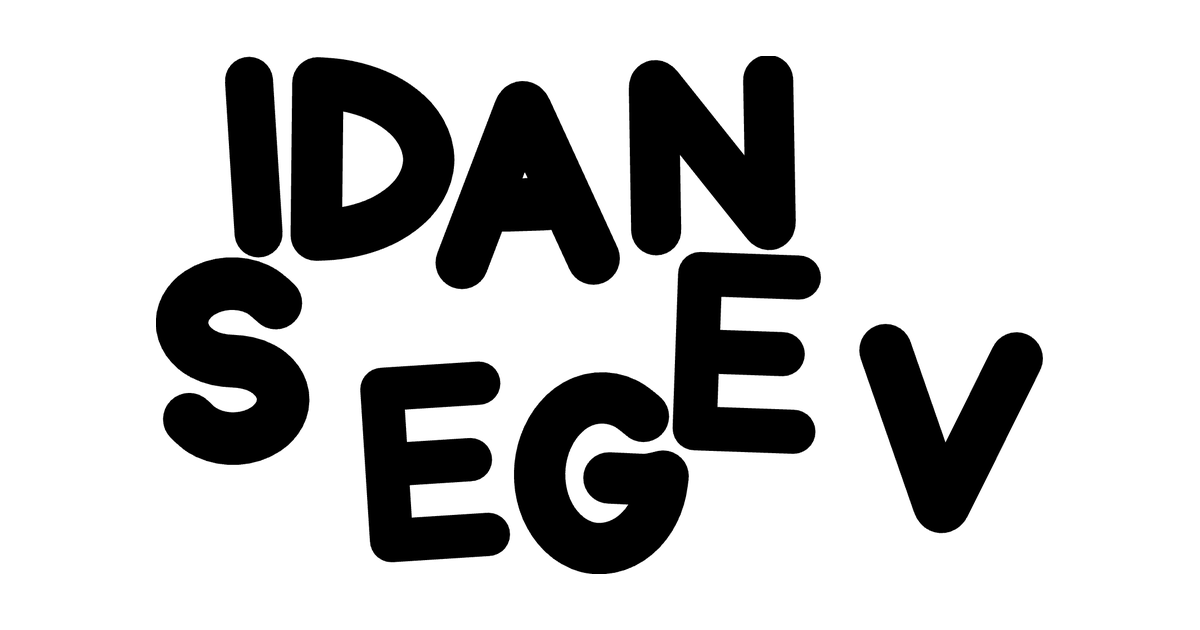
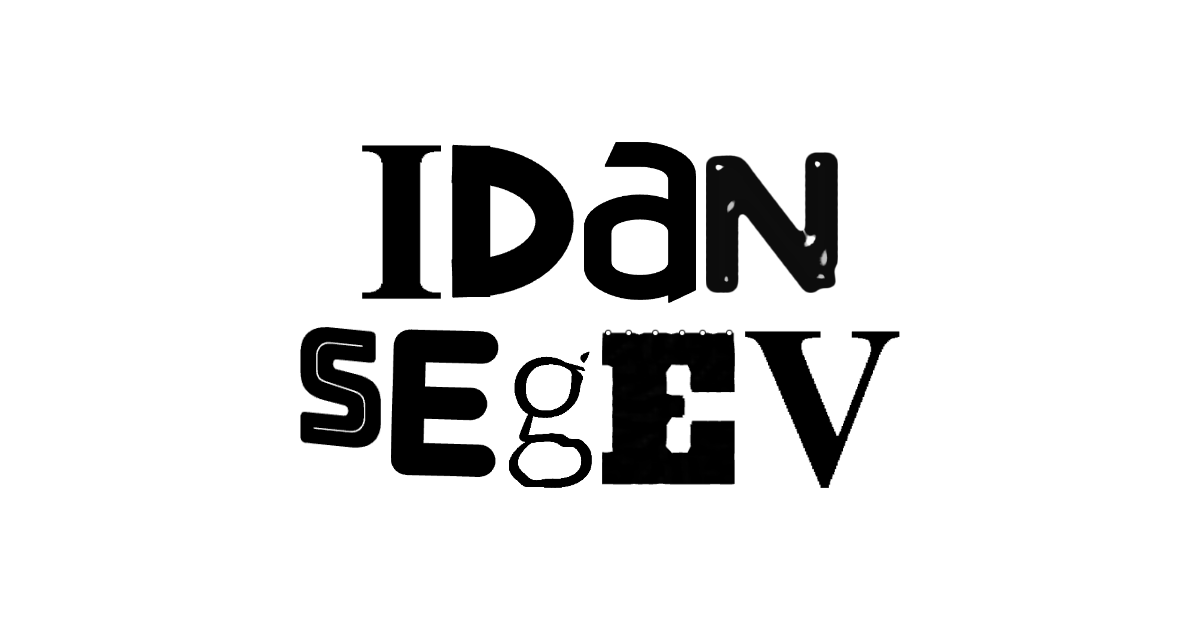
Share image: name cut letter by letter from the posters; new share text
assets/og.png is now made by tools/og-ransom.cjs: each letter of the name comes from a different
poster's share capture, centred so the square crop in WhatsApp and iMessage keeps the whole name.
Share title 'Idan Segev', description 'Design leader and builder, taste-maxing with type.', alt text
updated (the old one described the retired melt image). Share pages rebuilt.

Changed region(s): [[0.1233, 0.0905, 0.8942, 0.9349]]

diff --git a/index.html b/index.html
@@ -11,16 +11,16 @@
 
 <meta property="og:type" content="website">
 <meta property="og:site_name" content="Idan Segev">
-<meta property="og:title" content="Idan Segev · Design leader. Building teams of builders.">
-<meta property="og:description" content="Interactive typographic posters about design and technology coming apart. Refresh for another.">
+<meta property="og:title" content="Idan Segev">
+<meta property="og:description" content="Design leader and builder, taste-maxing with type.">
 <meta property="og:url" content="https://idansegev.com/">
 <meta property="og:image" content="https://idansegev.com/assets/og.png">
 <meta property="og:image:width" content="1200">
 <meta property="og:image:height" content="630">
-<meta property="og:image:alt" content="Idan Segev, set in huge white type on black, melting at the baseline.">
+<meta property="og:image:alt" content="Idan Segev, each letter cut from a different type poster, black on white.">
 <meta name="twitter:card" content="summary_large_image">
-<meta name="twitter:title" content="Idan Segev · Design leader. Building teams of builders.">
-<meta name="twitter:description" content="Interactive typographic posters about design and technology coming apart. Refresh for another.">
+<meta name="twitter:title" content="Idan Segev">
+<meta name="twitter:description" content="Design leader and builder, taste-maxing with type.">
 <meta name="twitter:image" content="https://idansegev.com/assets/og.png">
 
 <link rel="icon" href="/assets/favicon-light.svg" type="image/svg+xml">

diff --git a/rec/index.html b/rec/index.html
@@ -16,16 +16,16 @@
 
 <meta property="og:type" content="website">
 <meta property="og:site_name" content="Idan Segev">
-<meta property="og:title" content="Idan Segev · Design leader. Building teams of builders.">
-<meta property="og:description" content="Interactive typographic posters about design and technology coming apart. Refresh for another.">
+<meta property="og:title" content="Idan Segev">
+<meta property="og:description" content="Design leader and builder, taste-maxing with type.">
 <meta property="og:url" content="https://idansegev.com/">
 <meta property="og:image" content="https://idansegev.com/assets/og.png">
 <meta property="og:image:width" content="1200">
 <meta property="og:image:height" content="630">
-<meta property="og:image:alt" content="Idan Segev, set in huge white type on black, melting at the baseline.">
+<meta property="og:image:alt" content="Idan Segev, each letter cut from a different type poster, black on white.">
 <meta name="twitter:card" content="summary_large_image">
-<meta name="twitter:title" content="Idan Segev · Design leader. Building teams of builders.">
-<meta name="twitter:description" content="Interactive typographic posters about design and technology coming apart. Refresh for another.">
+<meta name="twitter:title" content="Idan Segev">
+<meta name="twitter:description" content="Design leader and builder, taste-maxing with type.">
 <meta name="twitter:image" content="https://idansegev.com/assets/og.png">
 
 <link rel="icon" href="/assets/favicon-light.svg" type="image/svg+xml">

diff --git a/p/gyosho/index.html b/p/gyosho/index.html
@@ -17,7 +17,7 @@
 <meta property="og:image" content="https://idansegev.com/assets/og.png">
 <meta property="og:image:width" content="1200">
 <meta property="og:image:height" content="630">
-<meta property="og:image:alt" content="Idan Segev, set in huge white type on black, melting at the baseline.">
+<meta property="og:image:alt" content="Idan Segev, each letter cut from a different type poster, black on white.">
 <meta name="twitter:card" content="summary_large_image">
 <meta name="twitter:title" content="Gyosho · Idan Segev">
 <meta name="twitter:description" content="An album title written huge with a loaded brush over its song names. Drag to paint with the same brush; tap to write it again.">

diff --git a/p/arboretum/index.html b/p/arboretum/index.html
@@ -17,7 +17,7 @@
 <meta property="og:image" content="https://idansegev.com/assets/og.png">
 <meta property="og:image:width" content="1200">
 <meta property="og:image:height" content="630">
-<meta property="og:image:alt" content="Idan Segev, set in huge white type on black, melting at the baseline.">
+<meta property="og:image:alt" content="Idan Segev, each letter cut from a different type poster, black on white.">
 <meta name="twitter:card" content="summary_large_image">
 <meta name="twitter:title" content="Arboretum · Idan Segev">
 <meta name="twitter:description" content="The name grows as plants, each species a typeface. Move across it for wind; tap to grow it again as another species.">

diff --git a/p/rewind/index.html b/p/rewind/index.html
@@ -17,7 +17,7 @@
 <meta property="og:image" content="https://idansegev.com/assets/og.png">
 <meta property="og:image:width" content="1200">
 <meta property="og:image:height" content="630">
-<meta property="og:image:alt" content="Idan Segev, set in huge white type on black, melting at the baseline.">
+<meta property="og:image:alt" content="Idan Segev, each letter cut from a different type poster, black on white.">
 <meta name="twitter:card" content="summary_large_image">
 <meta name="twitter:title" content="Rewind · Idan Segev">
 <meta name="twitter:description" content="The name as a block of liquid. Tap and it splashes in slow motion; hold and the splash runs back into the letters.">

diff --git a/p/drop/index.html b/p/drop/index.html
@@ -17,7 +17,7 @@
 <meta property="og:image" content="https://idansegev.com/assets/og.png">
 <meta property="og:image:width" content="1200">
 <meta property="og:image:height" content="630">
-<meta property="og:image:alt" content="Idan Segev, set in huge white type on black, melting at the baseline.">
+<meta property="og:image:alt" content="Idan Segev, each letter cut from a different type poster, black on white.">
 <meta name="twitter:card" content="summary_large_image">
 <meta name="twitter:title" content="Drop · Idan Segev">
 <meta name="twitter:description" content="The name in thick glass, falling. Hard landings break where they hit; the pieces pile up, then dissolve.">
